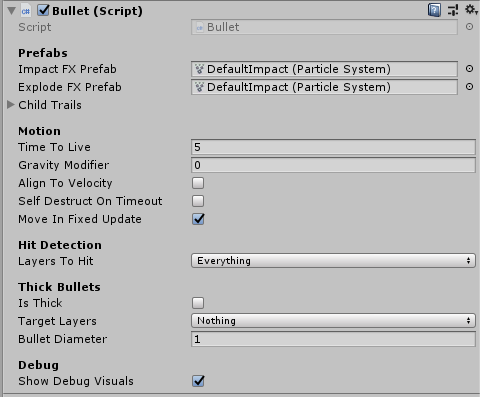
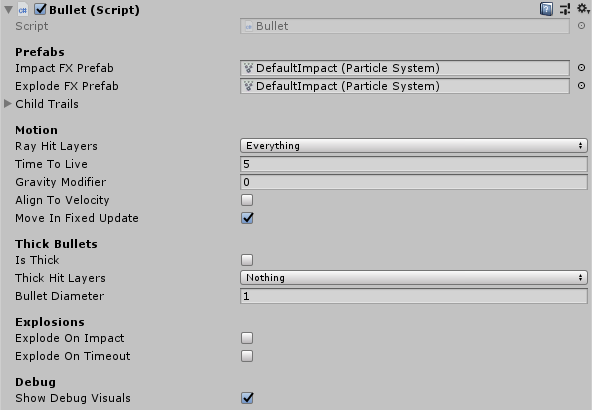
General clean up - Renamed and shuffled around some properties - Bullets set to explode on impact with use ExplodeBullet instead of DestroyFromImpact but with an explosion effect - Renamed FireShot to FireSingleShot to clarify its intended use - Fire functions return success - Many readme updates

diff --git a/Assets/GunsAndBullets/Scripts/Bullet.cs b/Assets/GunsAndBullets/Scripts/Bullet.cs
@@ -6,27 +6,37 @@ namespace GNB
     public class Bullet : MonoBehaviour
     {
         [Header("Prefabs")]
+        [Tooltip("Effect played when the bullet impacts something.")]
         [SerializeField] private ParticleSystem ImpactFXPrefab = null;
+        [Tooltip("Effect played when the bullet explodes.")]
         [SerializeField] private ParticleSystem ExplodeFXPrefab = null;
+        [Tooltip("Any trails listed here will be cleaned up nicely on the bullet's destruction. " +
+            "Used to prevent unsightly deleted trails.")]
         [SerializeField] private List<TrailRenderer> ChildTrails = new List<TrailRenderer>();
 
         [Header("Motion")]
+        [Tooltip("Layers the bullet will normally hit")]
+        public LayerMask RayHitLayers = -1;
+        [Tooltip("How long (seconds) the bullet lasts")]
         public float TimeToLive = 5f;
+        [Tooltip("Gravity applied to the bullet where 1 is normal gravity.")]
         public float GravityModifier = 0f;
+        [Tooltip("When true, the bullet automatically aligns itself to its velocity. Useful in arcing motions.")]
         public bool AlignToVelocity = false;
+        [Tooltip("This should be set to true when using physics based projects.")]
         [SerializeField] private bool MoveInFixedUpdate = true;
+
+        [Header("Thick Bullets")]
+        [Tooltip("Use thick hit detection for the bullet. This is run in addition to normal hit detection.")]
+        public bool IsThick = false;
+        [Tooltip("The layers the bullet will hit using thick hit detection.")]
+        public LayerMask ThickHitLayers = 0;
+        [Tooltip("Used only when thick hit detection is enabled.")]
+        public float BulletDiameter = 1f;
 
         [Header("Explosions")]
         public bool ExplodeOnImpact = false;
         public bool ExplodeOnTimeout = false;
-
-        [Header("Hit Detection")]
-        public LayerMask LayersToHit = -1;
-
-        [Header("Thick Bullets")]
-        public bool IsThick = false;
-        public LayerMask TargetLayers = 0;
-        public float BulletDiameter = 1f;
 
 #if UNITY_EDITOR
         [Header("Debug")]
@@ -150,13 +160,25 @@ namespace GNB
         }
 
         /// <summary>
+        /// Explodes the bullet. Typically used for air bursting explosive weapons.
+        /// </summary>
+        public void ExplodeBullet(Vector3 explodePosition, Quaternion explodeRotation)
+        {
+            if (ExplodeFXPrefab != null)
+                Instantiate(ImpactFXPrefab, explodePosition, explodeRotation).Play();
+
+            HandleExplosionDamage(explodePosition);
+
+            CleanUpTrails();
+            Destroy(gameObject);
+        }
+
+        /// <summary>
         /// Destroys the bullet as if it hit something.
         /// </summary>
         public void DestroyBulletFromImpact(Vector3 impactedPoint, Quaternion impactRotation)
         {
-            if (ExplodeOnImpact && ExplodeFXPrefab != null)
-                Instantiate(ExplodeFXPrefab, impactedPoint, impactRotation).Play();
-            else if (ImpactFXPrefab != null)
+            if (ImpactFXPrefab != null)
                 Instantiate(ImpactFXPrefab, impactedPoint, impactRotation).Play();
 
             CleanUpTrails();
@@ -168,20 +190,6 @@ namespace GNB
         /// </summary>
         public void DestroyBulletSilently()
         {
-            CleanUpTrails();
-            Destroy(gameObject);
-        }
-
-        /// <summary>
-        /// Explodes the bullet. Typically used for air bursting explosive weapons.
-        /// </summary>
-        public void ExplodeBullet(Vector3 explodePosition, Quaternion explodeRotation)
-        {
-            if (ExplodeFXPrefab != null)
-                Instantiate(ImpactFXPrefab, explodePosition, explodeRotation).Play();
-
-            HandleExplosionDamage(explodePosition);
-
             CleanUpTrails();
             Destroy(gameObject);
         }
@@ -203,7 +211,11 @@ namespace GNB
                 {
                     HandleImpactDamage(hitInfo);
                     HandleExplosionDamage(hitInfo.point);
-                    DestroyBulletFromImpact(hitInfo.point, transform.rotation);
+
+                    if (ExplodeOnImpact)
+                        ExplodeBullet(hitInfo.point, transform.rotation);
+                    else
+                        DestroyBulletFromImpact(hitInfo.point, transform.rotation);
                 }
                 else
                 {
@@ -257,7 +269,7 @@ namespace GNB
                 radius: BulletDiameter * .5f,
                 maxDistance: velocity.magnitude * deltaTime,
                 results: raycastHits,
-                layerMask: TargetLayers);
+                layerMask: ThickHitLayers);
 
             var (bulletHitSomething, closestHit) = GetClosestValidHit(raycastHits, hitCount);
             if (!bulletHitSomething)
@@ -270,7 +282,7 @@ namespace GNB
                     origin: position,
                     direction: velocity.normalized,
                     maxDistance: velocity.magnitude * deltaTime,
-                    layerMask: LayersToHit,
+                    layerMask: RayHitLayers,
                     results: raycastHits);
 
                 (bulletHitSomething, closestHit) = GetClosestValidHit(raycastHits, hitCount);
@@ -285,7 +297,7 @@ namespace GNB
                 origin: position,
                 direction: velocity,
                 maxDistance: velocity.magnitude * deltaTime,
-                layerMask: TargetLayers | LayersToHit,
+                layerMask: ThickHitLayers | RayHitLayers,
                 results: raycastHits);
 
             return GetClosestValidHit(raycastHits, hitCount);

diff --git a/Assets/GunsAndBullets/Scripts/Gun.cs b/Assets/GunsAndBullets/Scripts/Gun.cs
@@ -99,7 +99,7 @@ namespace GNB
         private void Update()
         {
             if (!FireInFixed)
-                FireShot(InheritedVelocity);
+                AttemptFireShot(InheritedVelocity);
         }
 
         private void FixedUpdate()
@@ -108,7 +108,7 @@ namespace GNB
                 InheritedVelocity = Rigidbody.velocity;
 
             if (FireInFixed && IsFiring)
-                FireShot(InheritedVelocity);
+                AttemptFireShot(InheritedVelocity);
         }
 
         /// <summary>
@@ -191,22 +191,19 @@ namespace GNB
         }
 
         /// <summary>
-        /// Fire a single shot.
+        /// Fire a single shot. Automatically takes into account inherited velocity.
         /// </summary>
         /// <remarks>For automatic fire, use <see cref="IsFiring"/>.</remarks>
-        public void FireShot()
+        /// <returns><see langword="true"/> if the shot was fired successfully.</returns>
+        public bool FireSingleShot()
         {
-            FireShot(InheritedVelocity);
+            return AttemptFireShot(InheritedVelocity);
         }
 
-        /// <summary>
-        /// Fire a single shot.
-        /// </summary>
-        /// <remarks>For automatic fire, use <see cref="IsFiring"/>.</remarks>
-        public void FireShot(Vector3 inheritedVelocity)
+        private bool AttemptFireShot(Vector3 inheritedVelocity)
         {
             if (!ReadyToFire)
-                return;
+                return false;
 
             if (IsSequentialFiring)
             {
@@ -228,6 +225,7 @@ namespace GNB
             }
 
             lastShotTime = Time.time;
+            return true;
         }
 
         private void FireBulletFromBarrel(Transform barrel, Vector3 velocity)

diff --git a/Assets/GunsAndBullets/Demo/Scripts/GunTester.cs b/Assets/GunsAndBullets/Demo/Scripts/GunTester.cs
@@ -23,7 +23,7 @@ namespace GNB.Demo
                         gun.UseGimballedAiming = false;
                     }
 
-                    gun.FireShot();
+                    gun.FireSingleShot();
                 }
             }
         }

diff --git a/README.md b/README.md
@@ -28,7 +28,7 @@ You can either clone the repository or [download the asset package](./GunsAndBul
 
 ![](Screenshots/gunproperties.png)
 
-The guns themselves are pretty straightforward. They fire automatically at a set rate of fire as long as `IsFiring` is set to true. If only a single shot is desired, the `FireShot` function can be used.
+The guns themselves are pretty straightforward. They fire automatically at a set rate of fire as long as `IsFiring` is set to true. If only a single shot is desired, the `FireSingleShot` function can be used.
 
 Using `GetPredictedImpactPoint`, the exact path of a bullet can be predicted. See [Prediction](#Prediction) for more information.
 
@@ -103,17 +103,13 @@ This project contains many special little features that I've come to find useful
 
 An optional feature that I often find myself repeatedly implementing is gimballing guns. The idea behind this is to allow the gun to hit a precise point without necessarily aiming the gun directly at that point. This is very useful for things such as auto-aim, AI controlled weapons, and ensuring that guns converge on a crosshair.
 
-##### `UseGimballedAiming`
-Set this to property to `true` to enable gimballed aiming.
+Set `UseGimballedAiming` to `true` to enable gimballed aiming.
 
-##### `GimbalTarget`
-When `UseGimballedAiming` is set to `true`, the gun will try to fire bullets at whatever position `GimbalTarget` currently has.
+`GimbalTarget` is the position the gun will try to fire bullets at when gimballing is enabled.
 
-##### `GimbalRange`
-The maximum degrees off boresight that the gun can gimbal bullets towards.
+`GimbalRange` is the maximum degrees off boresight that the gun can gimbal bullets towards.
 
-##### `GimbalOnlyWhenInRange`
-Sometimes you might not want the gun to aim at the `GimbalTarget` unless it is within the `GimbalRange`. In those cases, set this property to `true`.
+Set `GimbalOnlyWhenInRange` iif you want the gun to aim at `GimbalTarget` **only** when it is within the `GimbalRange`.
 
 ## Thick Bullets
 ![Thick](Screenshots/thickdemo.gif)
@@ -122,20 +118,16 @@ Another optional feature of bullets is to use "thick bullets." Rather than point
 
 Aside from being used to simulate large bullets (such as a cannon ball), it can be also be used to exaggerate the size of hitboxes to make hitting small and fast targets easier for the player.
 
-**Thick hit detection is only done against objects on the layers defined by `TargetLayers`!**
+**Thick hit detection is only done against objects on the layers defined by `ThickHitLayers`!**
 
 ![ThickDebug](Screenshots/thickbullets.png)
 
-##### `IsThick`
-When this is checked, thick bullet hit detection is used.
+Set `IsThick` to enable thick bullet hit detection using the diameter set by `BulletDiameter`.
 
-##### `BulletDiameter`
-Diameter of the bullet.
+#### Setting the Layers
+`ThickHitLayers` are the layers that thick hit detection is used for. This is **separate** from normal hit detection for game design and optimization reasons. When thick bullets use the same hit detection as everything else, they will get caught on terrain or the environment in sometimes undesirable ways. Thick bullets using separate hit detection allows them to do the SphereCasts only for relevant objects (e.g. hitboxes).
 
-##### `TargetLayers`
-These are the layers that thick hit detection is used for. This is separate from normal hit detection for game design and optimization reasons. When thick bullets use the same hit detection as everything else, they will get caught on terrain or the environment in sometimes undesirable ways. Thick bullets using separate hit detection allows them to do the SphereCasts only for relevant objects (e.g. hitboxes).
-
-Keep in mind that the SphereCasts are done **in addition** to normal bullet hit detection. If you'd like all hit detection to be done thick, then make sure to set the `LayerToHit` mask to `Nothing`.
+Keep in mind that the SphereCasts are done **in addition** to normal bullet hit detection. If you'd like all hit detection to be done thick, then make sure to set the `RayHitLayers` mask to `Nothing`.
 
 ## Prediction
 ![Prediction](Screenshots/predictiondemo.gif)
@@ -171,10 +163,11 @@ while (simTime < maxSimTime && !willHitSomething)
 ## Automatically Inherit Velocity
 ![Inheritance](Screenshots/inheritancedemo.gif)
 
-##### `AutoInheritVelocity`
-By default, a `Gun` will try to get a `Rigidbody` in its parent to use for inheriting velocity. Inheriting the velocity of the parent is realistic, but can be undesirable for some cases, so this is left optional.
+Set `AutoInheritVelocity` to `true` to enable fired bullets from a gun inheriting the velocity of their gun's parent.
 
-If you have a specific value you'd like to use for inherited velocity, or you are **not** using a Rigidbody, the inherited velocity used when firing a `Gun` can be manually overridden by setting the public `InheritedVelocity` property.
+Velocity inheritance is accomplished by getting the `Rigidbody` in its parent. Inheriting velocity is realistic, but can be undesirable in some cases, so this is left optional.
+
+If you have a specific value you'd like to use for inherited velocity, or you are **not** using a `Rigidbody`, the inherited velocity can be manually overridden by setting the public `InheritedVelocity` property.
 
 ## Ignoring Collision with Objects
 ![Ignore](Screenshots/ignorecollision.gif)
